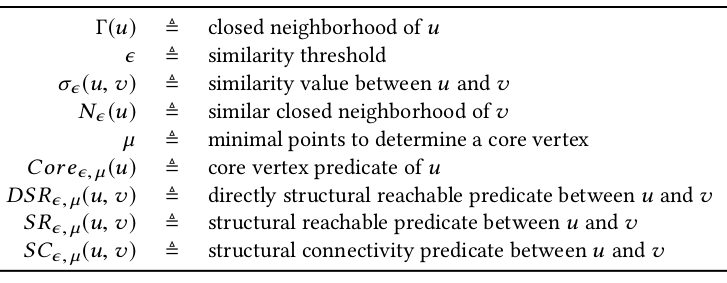
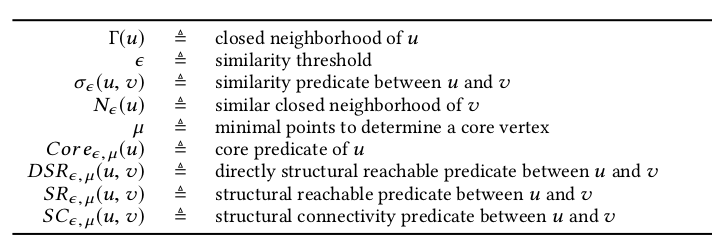
update notation

diff --git a/README.md b/README.md
@@ -8,13 +8,11 @@ SCAN notations
 
 relations
 
-
-
 def type | figure
 --- | ---
 input/output | <img src="figures/scan-intro.png" height="200px"/>
-eps-neighborhood | <img src="figures/def-1.png" height="200px" /> 
-core | <img src="figures/def-2.png" height="200px" /> 
+similarity predicate, eps-neighborhood | <img src="figures/def-1.png" height="200px" /> 
+core predicate | <img src="figures/def-2.png" height="200px" /> 
 cluster | <img src="figures/def-3.png" height="200px" /> 
 hub, outlier | <img src="figures/def-4.png" height="200px" /> 
 
